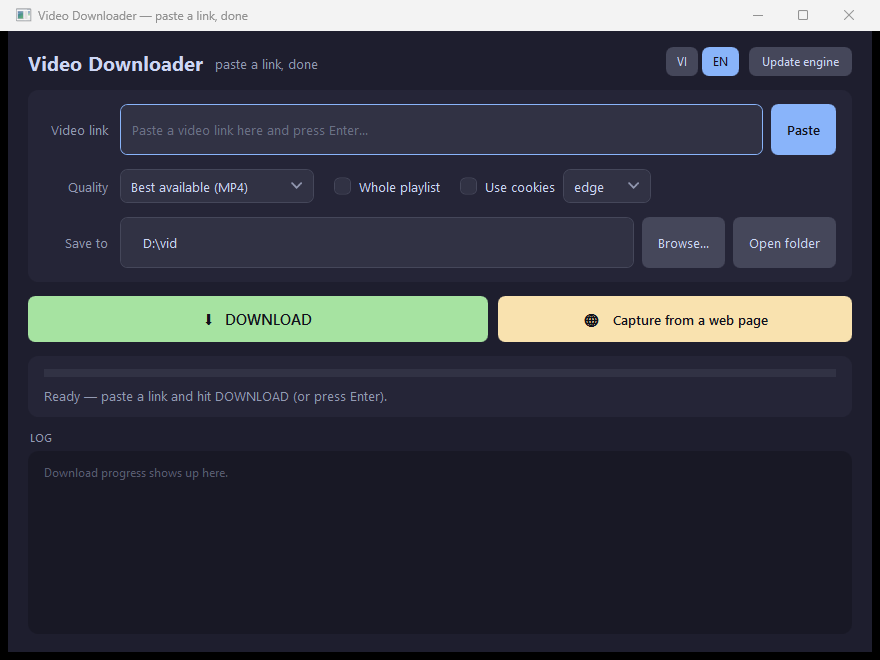
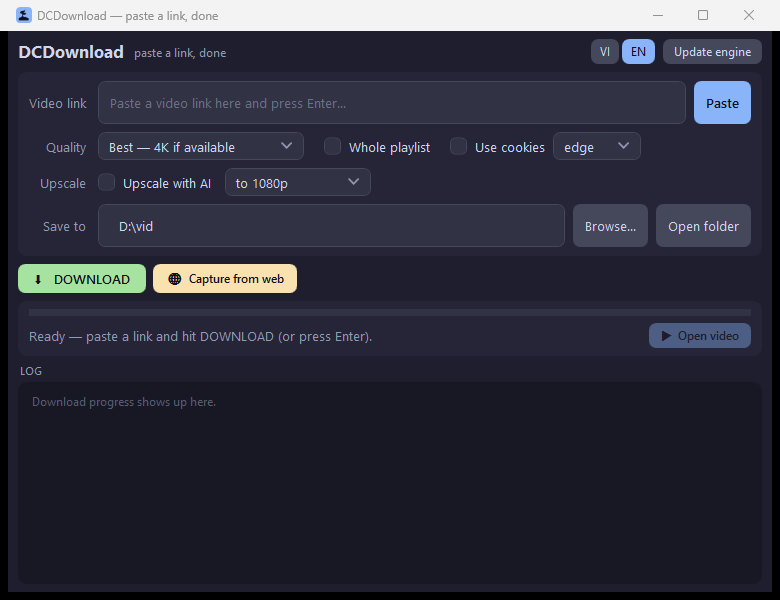
Them muc Cai dat ngay dau README + ban chay ngay (portable)
Nguoi dung vao repo la muon cai ngay chu it ai doc het, nen dua huong dan
cai dat len ngay duoi phan dau, gon trong mot bang 3 dong:
  1. File cai dat DCDownload-Setup.exe  (de nhat)
  2. Ban chay ngay DCDownload-portable.zip - giai nen la chay
  3. Tu ma nguon: git clone + setup.ps1

Truoc day chi co cach 3, ma cach do bat nguoi dung cai .NET SDK.

De cach 2 co that: build-installer.ps1 dong goi them
dist\DCDownload-portable.zip gom DCDownload.exe + bin\ engine.
Da thu giai nen va chay: chay duoc, tu tim thay engine.

Cap nhat lai 2 anh chup man hinh trong docs\ - anh cu van la giao dien
"Tai Video" doi truoc, chua co ten DCDownload lan bo cuc gon moi.

Kich thuoc: file cai 117.6 MB, ban portable 259.9 MB.

diff --git a/README.md b/README.md
@@ -9,6 +9,20 @@ browser extension — including the part where it sniffs the video out of a page
 
 **[English](#english) · [Tiếng Việt](#tiếng-việt)**
 
+## Cài đặt / Installation
+
+| | Cách làm |
+|---|---|
+| **1. File cài đặt** *(dễ nhất)* | Tải **`DCDownload-Setup.exe`** ở [Releases](https://github.com/namthse01/Simple_Vid_Download/releases) → nháy đúp → bấm **Cài đặt** |
+| **2. Bản chạy ngay** | Tải **`DCDownload-portable.zip`** → giải nén → chạy `DCDownload.exe` |
+| **3. Từ mã nguồn** | `git clone` repo này → chạy `setup.ps1` *(cần .NET SDK 10)* |
+
+Cách 1 và 2 **không cần cài .NET, Python hay gì khác**. Chỉ Windows 10/11.
+
+<sub>**EN** — 1: grab `DCDownload-Setup.exe` from Releases, double-click, hit install. 2: unzip
+`DCDownload-portable.zip` and run `DCDownload.exe`. 3: clone and run `setup.ps1` (needs .NET SDK 10).
+Options 1 and 2 need nothing pre-installed.</sub>
+
 ![Giao diện chính / Main window](docs/screenshot-main.png)
 
 ---
